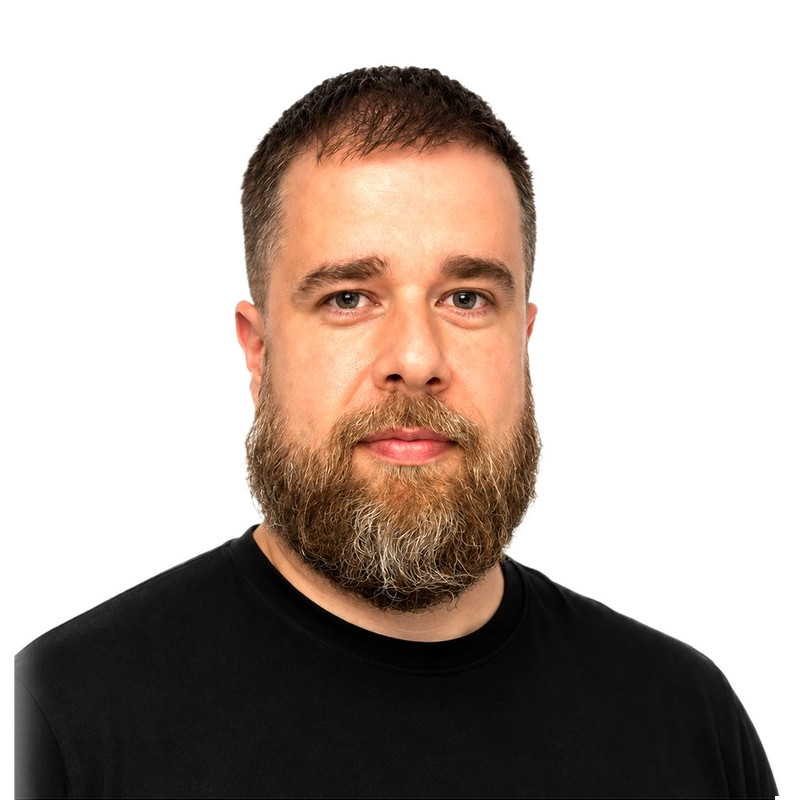
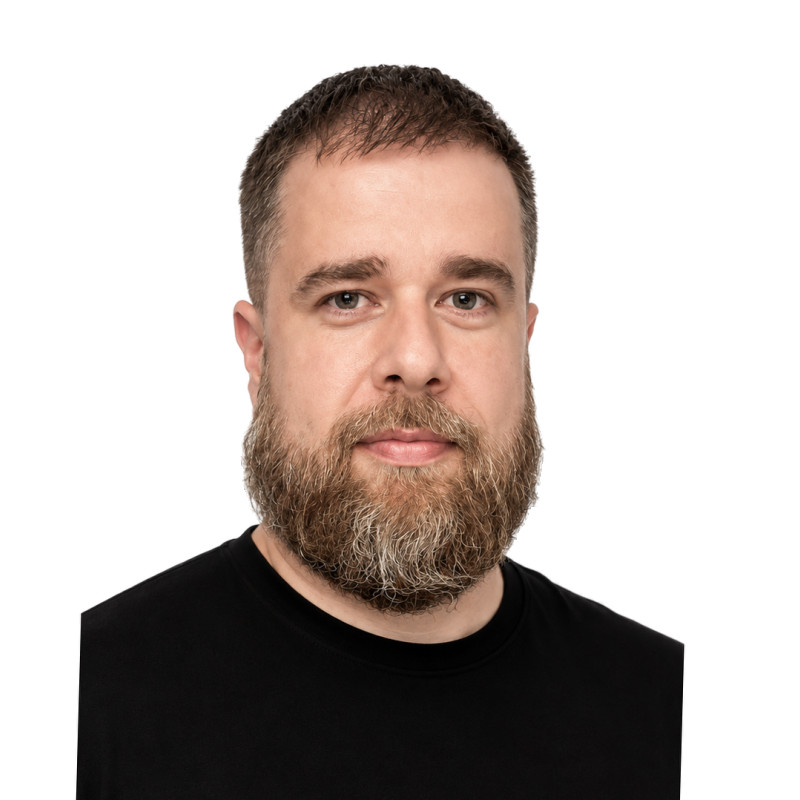
Antoniadis (8): portrét z nového focení
Zdroj ~/Downloads/7A4EDDBE-…jpg (814×1448), uložen i do repa jako
fotky-drive/antoniadis-2026.jpg, ať jde příště přepočítat z originálu.

Prošel make_fotky.py: srovnán náklon -1,6°, hlava na střed, bílé pozadí,
obličej 226 px (medián sady 228).

Pozn. k ostrosti: laplacián u nové vychází níž (948 vs 2098), ale
v detailu 1:1 je vidět, že u dosavadní to bylo přeostření, ne kresba —
nová má přirozenější pleť a čistší světlo.

Fotobanka: záznam 8 nově ukazuje nasazenou verzi jako doporučenou
a drží obě starší varianty pro porovnání.

diff --git a/src/data/fotobanka.js b/src/data/fotobanka.js
@@ -18,7 +18,7 @@ export const fotobanka = {
   5:  [nej(web('martina_wolna_c.jpg'))],
   6:  [nej(drive('miskej.jpg')), raw('17-miskej-2.jpg')],
   7:  [nej(web('regina_eichler_c.jpg')), drive('eichler.jpg'), raw('04-eichler-szpyrcova-2.jpg')],
-  8:  [nej(drive('antoniadis.jpg')), raw('antoniadis.jpg')],
+  8:  [nej(web('thanasis_antoniadis_c.jpg')), drive('antoniadis-2026.jpg'), drive('antoniadis.jpg'), raw('antoniadis.jpg')],
   9:  [nej(drive('szkandera.jpg')), raw('szkandera.jpg')],
   10: [nej(web('veronika_chmelarova_c.jpg')), raw('chmelarova.jpg')],
   11: [nej(drive('tomoszek.jpg')), raw('adam-tomoszek-foto2.jpg')],
